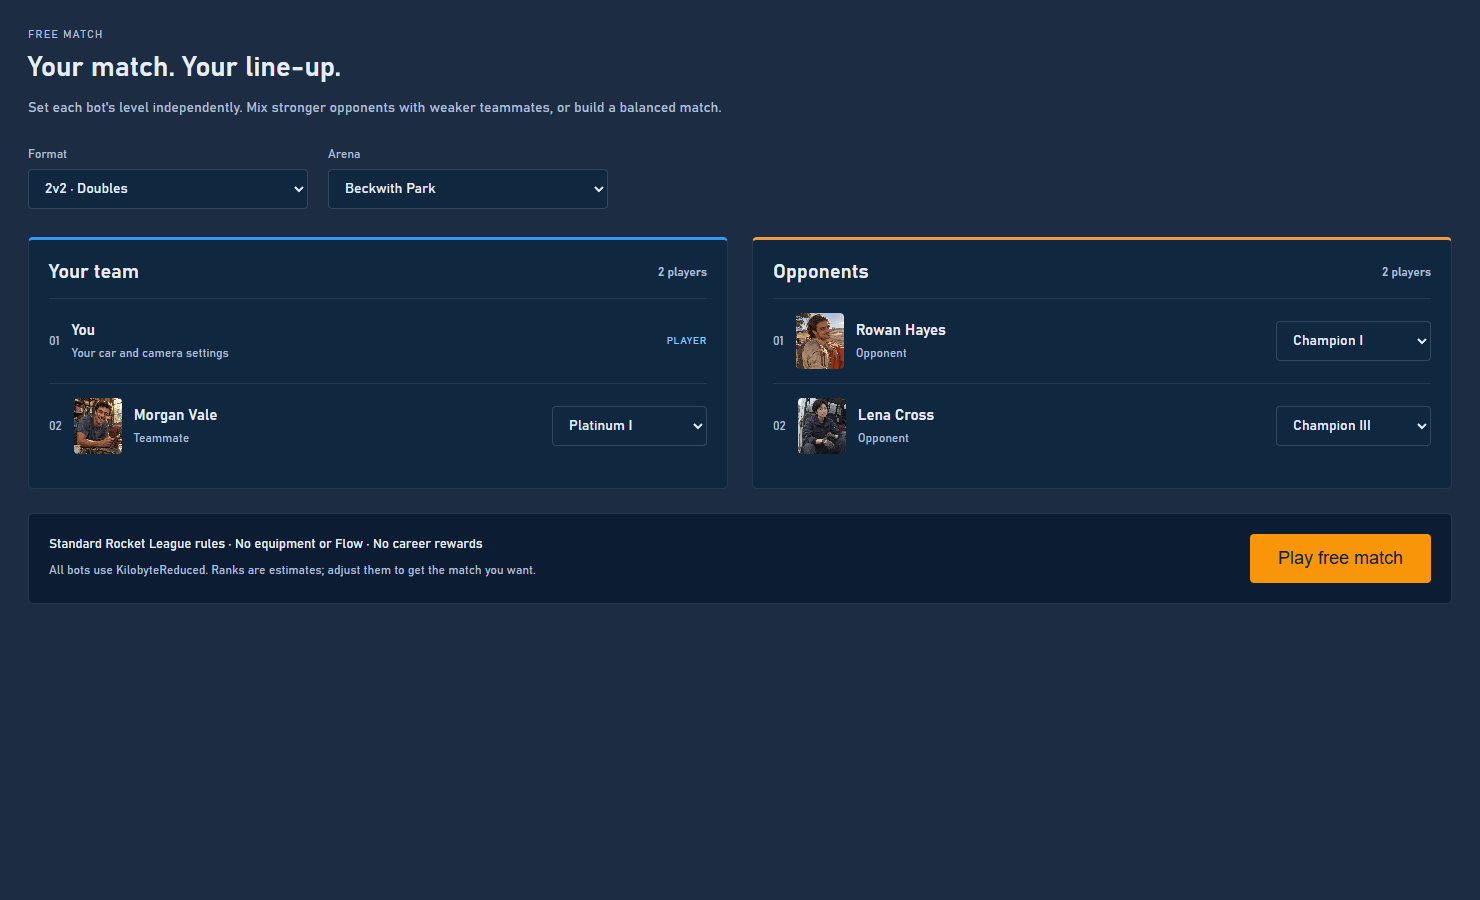
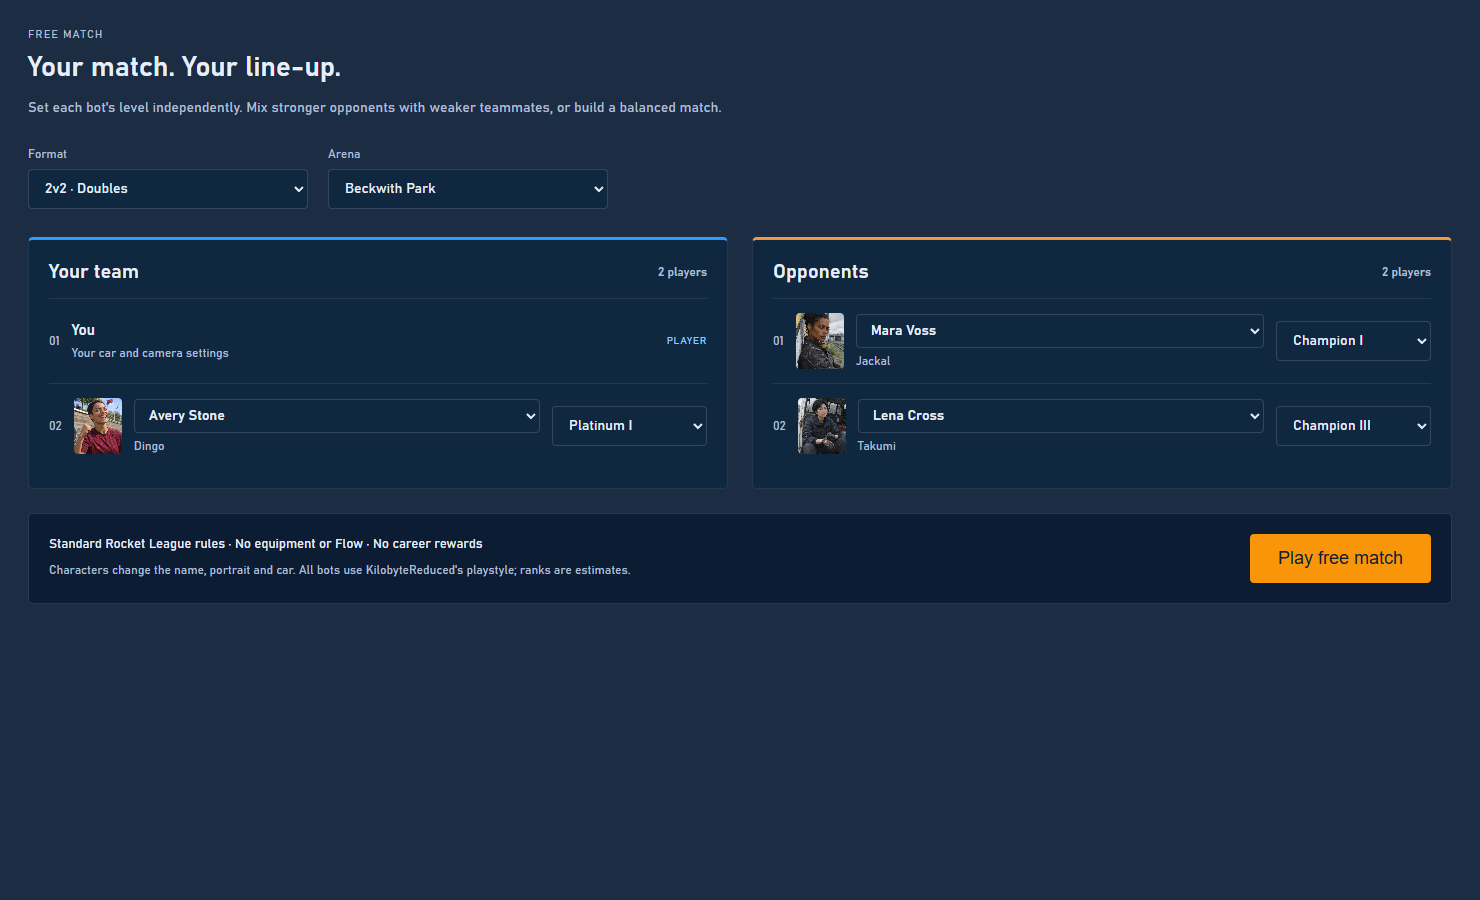
Allow character selection for every free-match bot

diff --git a/frontend/src/pages/StoryFreeMatch.svelte b/frontend/src/pages/StoryFreeMatch.svelte
@@ -1,11 +1,6 @@
 <script lang="ts">
   import { onMount, untrack } from "svelte";
-  import { App } from "../../bindings/gui";
-  import morgan from "../assets/story/recruits/morgan-v2.png";
-  import casey from "../assets/story/recruits/casey-v2.png";
-  import rowan from "../assets/story/recruits/rowan-v2.png";
-  import lena from "../assets/story/recruits/lena-v2.png";
-  import viktor from "../assets/story/recruits/viktor.png";
+  import { App, type StoryRecruit } from "../../bindings/gui";
 
   let {
     paths,
@@ -13,7 +8,11 @@
     rankNames,
     locked,
     onlaunch,
+    roster,
+    portraits,
   }: {
+    roster: StoryRecruit[];
+    portraits: Record<string, string>;
     paths: string[];
     ranks: Record<string, number>;
     rankNames: string[];
@@ -29,10 +28,6 @@
     ["DFHStadium", "DFH Stadium"],
     ["ChampionsField", "Champions Field"],
   ];
-  const teammates = ["Morgan Vale", "Casey Reed"];
-  const opponents = ["Rowan Hayes", "Lena Cross", "Viktor Rook"];
-  const teammatePortraits = [morgan, casey];
-  const opponentPortraits = [rowan, lena, viktor];
   const initialRank = untrack(() => {
     const rank = ranks["2v2"];
     return rank >= 1 && rank <= 22 ? rank : 7;
@@ -40,6 +35,33 @@
   const storageKey = "RLSTORY_FREE_MATCH_V1";
   let size = $state(2),
     arena = $state("BeckwithPark");
+  let blueDrivers = $state(["rookie", "pro"]);
+  let orangeDrivers = $state(["Beast from the East", "Phoenix CS", "Fury"]);
+  const driver = (id: string) => roster.find((r) => r.id === id);
+  const portrait = (id: string) => portraits[driver(id)?.portrait ?? ""];
+  function activeDrivers() {
+    return [...blueDrivers.slice(0, size - 1), ...orangeDrivers.slice(0, size)];
+  }
+  function ensureUnique() {
+    const seen = new Set<string>();
+    for (const [ids, count] of [
+      [blueDrivers, size - 1],
+      [orangeDrivers, size],
+    ] as [string[], number][]) {
+      for (let i = 0; i < count; i++) {
+        if (!driver(ids[i]) || seen.has(ids[i]))
+          ids[i] = roster.find((r) => !seen.has(r.id))!.id;
+        seen.add(ids[i]);
+      }
+    }
+  }
+  function changeFormat(next: number) {
+    size = next;
+    ensureUnique();
+  }
+  function usedCharacter(id: string, current: string) {
+    return id !== current && activeDrivers().includes(id);
+  }
   let blueRanks = $state([initialRank, initialRank]);
   let orangeRanks = $state([initialRank, initialRank, initialRank]);
   let launching = $state(false),
@@ -67,6 +89,14 @@
         arena = saved.arena;
         blueRanks = saved.blueRanks;
         orangeRanks = saved.orangeRanks;
+        const validDrivers = (ids: unknown, length: number): ids is string[] =>
+          Array.isArray(ids) &&
+          ids.length === length &&
+          ids.every((id) => typeof id === "string" && driver(id));
+        if (validDrivers(saved.blueDrivers, 2)) blueDrivers = saved.blueDrivers;
+        if (validDrivers(saved.orangeDrivers, 3))
+          orangeDrivers = saved.orangeDrivers;
+        ensureUnique();
       }
     } catch {
       /* A malformed local preset should not prevent match creation. */
@@ -80,7 +110,14 @@
       try {
         localStorage.setItem(
           storageKey,
-          JSON.stringify({ size, arena, blueRanks, orangeRanks }),
+          JSON.stringify({
+            size,
+            arena,
+            blueRanks,
+            orangeRanks,
+            blueDrivers,
+            orangeDrivers,
+          }),
         );
       } catch {
         /* Storage is optional. */
@@ -91,6 +128,8 @@
           arena,
           blueRanks: blueRanks.slice(0, size - 1),
           orangeRanks: orangeRanks.slice(0, size),
+          blueDrivers: blueDrivers.slice(0, size - 1),
+          orangeDrivers: orangeDrivers.slice(0, size),
         },
         paths,
         localStorage.getItem("MS_LAUNCHER") ?? "",
@@ -116,7 +155,12 @@
   </header>
   <div class="setup">
     <label
-      >Format<select aria-label="Format" bind:value={size} {disabled}>
+      >Format<select
+        aria-label="Format"
+        value={size}
+        onchange={(e) => changeFormat(Number(e.currentTarget.value))}
+        {disabled}
+      >
         <option value={1}>1v1 · Duel</option><option value={2}
           >2v2 · Doubles</option
         ><option value={3}>3v3 · Standard</option>
@@ -141,10 +185,25 @@
       {#each blueRanks.slice(0, size - 1) as rank, i}
         <div class="player">
           <span class="slot">0{i + 2}</span>
-          <img class="portrait" src={teammatePortraits[i]} alt="" />
-          <div><strong>{teammates[i]}</strong><small>Teammate</small></div>
+          <img class="portrait" src={portrait(blueDrivers[i])} alt="" />
+          <div class="driver-info">
+            <label
+              ><span class="sr-only">Teammate {i + 1} character</span><select
+                aria-label={`Teammate ${i + 1} character`}
+                value={blueDrivers[i]}
+                {disabled}
+                onchange={(e) => (blueDrivers[i] = e.currentTarget.value)}
+                >{#each roster as r}<option
+                    value={r.id}
+                    disabled={usedCharacter(r.id, blueDrivers[i])}
+                    >{r.name}</option
+                  >{/each}</select
+              ></label
+            ><small>{driver(blueDrivers[i])?.carName}</small>
+          </div>
           <label
-            ><span class="sr-only">{teammates[i]} rank</span><select
+            ><span class="sr-only">{driver(blueDrivers[i])?.name} rank</span
+            ><select
               value={rank}
               {disabled}
               onchange={(e) => (blueRanks[i] = Number(e.currentTarget.value))}
@@ -162,10 +221,25 @@
       {#each orangeRanks.slice(0, size) as rank, i}
         <div class="player">
           <span class="slot">0{i + 1}</span>
-          <img class="portrait" src={opponentPortraits[i]} alt="" />
-          <div><strong>{opponents[i]}</strong><small>Opponent</small></div>
+          <img class="portrait" src={portrait(orangeDrivers[i])} alt="" />
+          <div class="driver-info">
+            <label
+              ><span class="sr-only">Opponent {i + 1} character</span><select
+                aria-label={`Opponent ${i + 1} character`}
+                value={orangeDrivers[i]}
+                {disabled}
+                onchange={(e) => (orangeDrivers[i] = e.currentTarget.value)}
+                >{#each roster as r}<option
+                    value={r.id}
+                    disabled={usedCharacter(r.id, orangeDrivers[i])}
+                    >{r.name}</option
+                  >{/each}</select
+              ></label
+            ><small>{driver(orangeDrivers[i])?.carName}</small>
+          </div>
           <label
-            ><span class="sr-only">{opponents[i]} rank</span><select
+            ><span class="sr-only">{driver(orangeDrivers[i])?.name} rank</span
+            ><select
               value={rank}
               {disabled}
               onchange={(e) => (orangeRanks[i] = Number(e.currentTarget.value))}
@@ -186,8 +260,8 @@
         Standard Rocket League rules · No equipment or Flow · No career rewards
       </p>
       <p class="hint">
-        All bots use KilobyteReduced. Ranks are estimates; adjust them to get
-        the match you want.
+        Characters change the name, portrait and car. All bots use
+        KilobyteReduced's playstyle; ranks are estimates.
       </p>
     </div>
     <button class="launch" {disabled} onclick={launch}
@@ -325,6 +399,12 @@
   .player > label {
     width: 155px;
     flex-shrink: 0;
+  }
+  .driver-info select {
+    width: 100%;
+    padding: 8px 10px;
+    min-width: 0;
+    font-weight: 500;
   }
   .player select {
     margin: 0;

diff --git a/frontend/src/pages/StoryMode.svelte b/frontend/src/pages/StoryMode.svelte
@@ -411,6 +411,8 @@
       {rankNames}
       {locked}
       onlaunch={refresh}
+      roster={view.roster}
+      {portraits}
     />
   {:else if tab === "season"}
     {#if !view.save.profileSet}<div class="setup-hint">

diff --git a/story_free_match.go b/story_free_match.go
@@ -11,10 +11,40 @@ import (
 
 // Ranks describe each slot, independently; the human is always blue slot zero.
 type StoryFreeMatchOptions struct {
-	Size        int    `json:"size"`
-	Arena       string `json:"arena"`
-	BlueRanks   []int  `json:"blueRanks"`
-	OrangeRanks []int  `json:"orangeRanks"`
+	Size          int      `json:"size"`
+	Arena         string   `json:"arena"`
+	BlueRanks     []int    `json:"blueRanks"`
+	OrangeRanks   []int    `json:"orangeRanks"`
+	BlueDrivers   []string `json:"blueDrivers"`
+	OrangeDrivers []string `json:"orangeDrivers"`
+}
+
+func storyFreeMatchDrivers(o StoryFreeMatchOptions) ([][]StoryRecruit, error) {
+	ids := [][]string{o.BlueDrivers, o.OrangeDrivers}
+	defaults := [][]string{{"rookie", "pro"}, {"Beast from the East", "Phoenix CS", "Fury"}}
+	counts := []int{o.Size - 1, o.Size}
+	drivers := make([][]StoryRecruit, 2)
+	seen := map[string]bool{}
+	for team := range ids {
+		if len(ids[team]) == 0 {
+			ids[team] = defaults[team][:counts[team]]
+		}
+		if len(ids[team]) != counts[team] {
+			return nil, errors.New("Choose a character for every bot")
+		}
+		for _, id := range ids[team] {
+			driver, ok := storyRecruit(id)
+			if !ok {
+				return nil, errors.New("Unknown free-match character")
+			}
+			if seen[id] {
+				return nil, errors.New("Choose a different character for each bot")
+			}
+			seen[id] = true
+			drivers[team] = append(drivers[team], driver)
+		}
+	}
+	return drivers, nil
 }
 
 var storyFreeMatchArenas = []string{"BeckwithPark", "Farmstead", "UrbanCentral", "Mannfield", "DFHStadium", "ChampionsField"}
@@ -22,6 +52,10 @@ var storyFreeMatchArenas = []string{"BeckwithPark", "Farmstead", "UrbanCentral",
 func storyFreeMatchConfig(o StoryFreeMatchOptions, bots []BotInfo, launcher, launcherArg string) (StartMatchOptions, error) {
 	if o.Size < 1 || o.Size > 3 || len(o.BlueRanks) != o.Size-1 || len(o.OrangeRanks) != o.Size {
 		return StartMatchOptions{}, errors.New("Choose 1v1, 2v2 or 3v3 and a rank for every bot")
+	}
+	drivers, err := storyFreeMatchDrivers(o)
+	if err != nil {
+		return StartMatchOptions{}, err
 	}
 	if !slices.Contains(storyFreeMatchArenas, o.Arena) {
 		return StartMatchOptions{}, errors.New("Choose an available free-match arena")
@@ -56,10 +90,7 @@ func storyFreeMatchConfig(o StoryFreeMatchOptions, bots []BotInfo, launcher, lau
 			if err != nil {
 				return StartMatchOptions{}, err
 			}
-			name := []string{"Morgan Vale", "Casey Reed"}[min(i, 1)]
-			if team == 1 {
-				name = []string{"Rowan Hayes", "Lena Cross", "Viktor Rook"}[i]
-			}
+			name := drivers[team][i].Name
 			player, err = storyNamedPlayer(player, name)
 			if err != nil {
 				return StartMatchOptions{}, err

diff --git a/story_free_match_test.go b/story_free_match_test.go
@@ -55,6 +55,13 @@ func TestFreeMatchUsesEachSlotRankWithStandardRules(t *testing.T) {
 func TestFreeMatchRejectsInvalidSetup(t *testing.T) {
 	valid := StoryFreeMatchOptions{Size: 2, Arena: "Mannfield", BlueRanks: []int{10}, OrangeRanks: []int{16, 22}}
 	for _, change := range []func(*StoryFreeMatchOptions){
+		func(o *StoryFreeMatchOptions) { o.BlueDrivers = []string{"missing"} },
+		func(o *StoryFreeMatchOptions) { o.OrangeDrivers = []string{"rookie", "rookie"} },
+		func(o *StoryFreeMatchOptions) {
+			o.BlueDrivers = []string{"pro"}
+			o.OrangeDrivers = []string{"pro", "Fury"}
+		},
+		func(o *StoryFreeMatchOptions) { o.BlueDrivers = []string{"rookie", "pro"} },
 		func(o *StoryFreeMatchOptions) { o.Size = 4 }, func(o *StoryFreeMatchOptions) { o.BlueRanks = nil },
 		func(o *StoryFreeMatchOptions) { o.OrangeRanks = []int{10} }, func(o *StoryFreeMatchOptions) { o.OrangeRanks = []int{0, 10} },
 		func(o *StoryFreeMatchOptions) { o.BlueRanks = []int{23} }, func(o *StoryFreeMatchOptions) { o.Arena = "untrusted-map" },
@@ -70,6 +77,26 @@ func TestFreeMatchRejectsInvalidSetup(t *testing.T) {
 	}
 	if _, err := storyFreeMatchConfig(valid, nil, "steam", ""); err == nil {
 		t.Fatal("Missing adjustable bot accepted")
+	}
+}
+
+func TestFreeMatchCharacterIsIndependentFromRankAndRecruitment(t *testing.T) {
+	o := StoryFreeMatchOptions{Size: 2, Arena: "Mannfield", BlueRanks: []int{10}, OrangeRanks: []int{16, 22}, BlueDrivers: []string{"Kira"}, OrangeDrivers: []string{"allstar", "Necto"}}
+	c, err := storyFreeMatchConfig(o, freeMatchTestBots(), "steam", "")
+	if err != nil {
+		t.Fatal(err)
+	}
+	for i, p := range []PlayerJs{c.BluePlayers[1], c.OrangePlayers[0], c.OrangePlayers[1]} {
+		var bot BotInfo
+		if err = json.Unmarshal(p.Player, &bot); err != nil {
+			t.Fatal(err)
+		}
+		name := []string{"Mara Voss", "Jamie Cole", "Avery Stone"}[i]
+		rank := []int{10, 16, 22}[i]
+		car, _ := storyCarForDriver(name)
+		if bot.Config.Settings.Name != name || bot.Loadout.Blue.CarId != car.ID || bot.Loadout.Orange.CarId != car.ID || !strings.Contains(bot.Config.Settings.RunCommand, fmt.Sprintf(" --skill=%d ", rank)) {
+			t.Fatal("Character, car or rank selection lost", bot)
+		}
 	}
 }
 

diff --git a/STORY_MODE.md b/STORY_MODE.md
@@ -26,7 +26,9 @@ Open the **Free match** tab to play a standard 1v1, 2v2 or 3v3 with a separate B
 
 The last setup is saved locally in the GUI. Free matches do not require recruited characters, grant credits, change campaign/series progress, apply fuel handicaps, run equipment/Flow or use the career's three-goal-lead rule. They follow normal Soccar rules.
 
-Free-match slots use existing club characters with matching portraits and cars. The launch button sits in a high-contrast action bar; global GUI blur styling does not override it. The README screenshot shows the real component with a sample setup and a mocked launch API, not a recorded live match.
+Each free-match slot has independent character and rank selectors. All nine club characters are available, including unrecruited ones; changing a character updates the portrait, name and assigned car while retaining the slot's rank. Characters cannot appear twice in one match. Format changes resolve conflicts with previously hidden slots, and the character choices are saved with the preset. These personalities are presentation, not aggression or tactical settings.
+
+The launch button sits in a high-contrast action bar; global GUI blur styling does not override it. The README screenshot shows the real component with a sample setup and a mocked launch API, not a recorded live match.
 
 Each Kilobyte driver gets a separate agent reservation and process, so one process cannot claim multiple differently ranked slots. This uses Byte's support for the server-assigned `RLBOT_AGENT_ID`; installed bot TOMLs are unchanged. The same reservation isolation also applies to named career drivers.
 

diff --git a/README.md b/README.md
@@ -15,7 +15,7 @@ From local games to the main stage: 24 fixtures, seven chapters, recruitment, sa
 
 ## Free match
 
-Build a 1v1, 2v2 or 3v3 and choose each teammate's and opponent's estimated rank independently. Standard Rocket League rules, without career rewards or equipment.
+Build a 1v1, 2v2 or 3v3 and choose each bot's character and estimated rank independently. Portraits and cars follow the chosen character. Standard Rocket League rules, without career rewards or equipment.
 
 ![Free match — character portraits and independent bot ranks, shown with a sample setup](docs/images/free-match.png)
 
